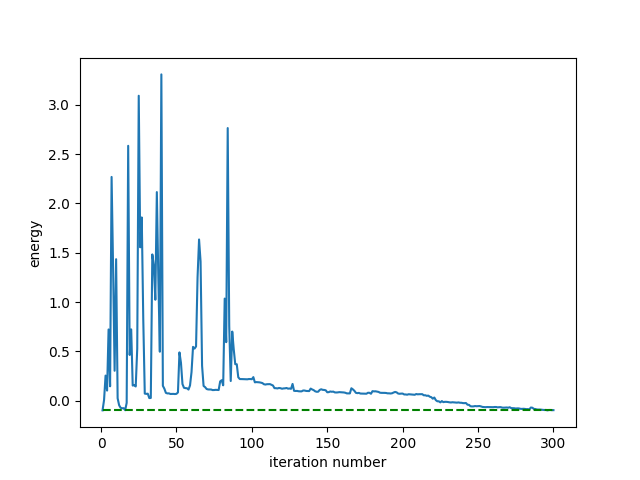
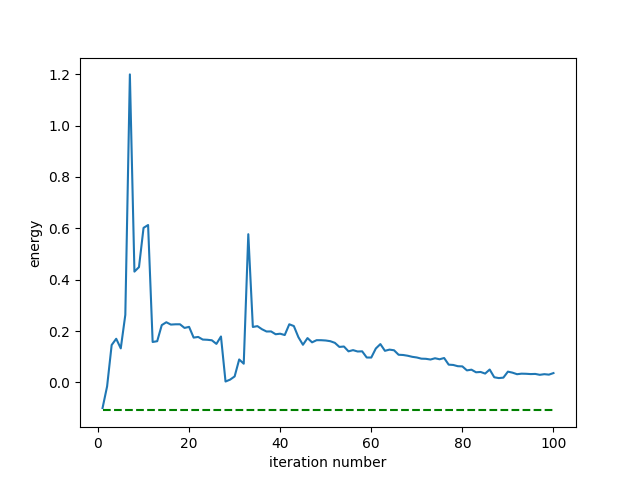
mincomp working

diff --git a/QMLCirOpts_GD_SPSA.py b/QMLCirOpts_GD_SPSA.py
@@ -3,7 +3,7 @@
     //working CLI to run different opts on circuit defined in pennyl3 """
     
 import pennylane as qml
-from noisyopt import minimizeSPSA
+from noisyopt import minimizeSPSA, minimizeCompass
 import numpy as np
 import matplotlib.pyplot as plt 
 import time
@@ -50,13 +50,39 @@ def SPSA(steps, init_params, c, a):
     res = minimizeSPSA(
         sim_run,
         x0=init_params_spsa.copy(),
-        niter=steps,
         paired=False,
         c=c,
         a=a,
+        disp=True,
         callback=callback_fn,)
 
+    print(res)
+
     return F   
+
+def MinCompass(init_params):
+    init_params_spsa = init_params
+
+    F = []
+    def callback_fn(xk):
+        cost_val = sim_run(xk)
+        F.append(cost_val)
+        cost_store_spsa.append(cost_val)
+
+    cost_store_spsa = [sim_run(init_params_spsa)]
+
+    res = minimizeCompass(
+        sim_run,
+        x0=init_params_spsa.copy(),
+        paired=False,
+        errorcontrol=False,
+        funcNinit=300,
+        disp=True,
+        callback=callback_fn,)
+
+    print(res)
+
+    return F     
 
 #new -0.10911
 def plot_result(F, opt_name, exact_E=-0.10911):
@@ -83,10 +109,11 @@ if __name__ == '__main__':
         print("     1. Basic gradient-descent optimizer (GD)")
         print("     2. Simultaneous Perturbation Stochastic Approximation (SPSA)")
         print("     3. Gradient-descent optimizer with adaptive learning rate, first and second moment (Adam)")
-        print("     4. Gradient-descent optimizer with past-gradient-dependent learning rate in each dimension. (Ada)")
-        print("     5. Gradient-descent optimizer with momentum. (MO)")
-        print("     6. Gradient-descent optimizer with Nesterov momentum. (NMO)")
-        print("     7. Root mean squared propagation optimizer. (RMSProp)")
+        print("     4. Gradient-descent optimizer with past-gradient-dependent learning rate in each dimension (Ada)")
+        print("     5. Gradient-descent optimizer with momentum (MO)")
+        print("     6. Gradient-descent optimizer with Nesterov momentum (NMO)")
+        print("     7. Root mean squared propagation optimizer (RMSProp)")
+        print("     8. Minimization of an objective function by a pattern search (MinCompass)")
         print("Input menu ID(s) of optimizers to run (examples: 1,3 or 2): ", end='')
         menu_input = input()   
         menu_input = list(menu_input.split(","))
@@ -279,7 +306,27 @@ if __name__ == '__main__':
                 print()
                 plot_result(result, "RMSProp")    
                             
+            elif(i == '8'):
+                valid_input = True
+                print("MinCompass hyperparameters (input d to use defaults OR any other key to continue modifying): ", end='')
+                param_spec = input()
+                if(param_spec != "d"):
+                    print("The algorithm terminates when the current iterate is locally optimally at the target pattern size deltatol or when the function value differs by less than the tolerance feps along all directions.")
+                    print("Initial parameters (example: 1.57079633,1.57079633,1.57079633,1.57079633,1.57079633,1.57079633): ", end='')
+                    init_params = input()
+                    init_params = [float(item) for item in init_params.split(',')]
 
+                else: 
+                    init_params = np.pi/2*np.ones(6)
+
+                time_start = time.time()
+                print("Running MinCompass---------------------------------------------------------------------------------------------")
+                result = MinCompass(init_params)
+                time_stop = time.time()
+                print("MinCompass plot saved to results directory")
+                print("MinCompass time elapsed: " + str(time_stop - time_start))
+                print()
+                plot_result(result, "MinCompass")
     
     
     

diff --git a/QMLCirOpts_Roto_QNG.py b/QMLCirOpts_Roto_QNG.py
@@ -24,13 +24,15 @@ def cost_function(rot_param, layer_par, crot_param):
     for i, par in enumerate(crot_param):
         qml.CRY(par, wires=[i, (i+1)%3])
 
-    return qml.expval(qml.PauliZ(0) @ qml.PauliZ(1) @ qml.PauliZ(2))
+    result = qml.expval(qml.PauliZ(0) @ qml.PauliZ(1) @ qml.PauliZ(2))
+    print(result)
+    return result
 
 #TRY ROTOSOLVE AND ROTOSELECT
 def RotoSolve(num_steps, init_params):
     opt = qml.optimize.RotosolveOptimizer()
     param = init_params.copy()
-    cost_rotosolve  = []
+    cost_roto  = []
 
     for step in range(num_steps):
         param, cost, sub_cost = opt.step_and_cost(
@@ -41,34 +43,53 @@ def RotoSolve(num_steps, init_params):
         )
         print(f"Cost before step: {cost}")
         print(f"Minimization substeps: {np.round(sub_cost, 6)}")
-        cost_rotosolve.extend(sub_cost)
+        cost_roto.append(cost)
 
-    return cost_rotosolve    
+    return cost_roto    
 
-def ShotAdaptive(num_step):
-    coeffs = [2, 4, -1, 5, 2]
-    obs = [
-        qml.PauliX(1),
-        qml.PauliZ(1),
-        qml.PauliX(0) @ qml.PauliX(1),
-        qml.PauliY(0) @ qml.PauliY(1),
-        qml.PauliZ(0) @ qml.PauliZ(1)
-    ]
-    H = qml.Hamiltonian(coeffs, obs)
-    dev = qml.device("default.qubit", wires=2, shots=100)
-    cost = qml.ExpvalCost(qml.templates.StronglyEntanglingLayers, H, dev)  
+def RotoSelect(num_steps, init_params):
+    opt = qml.optimize.RotoselectOptimizer()
+    param = init_params.copy()
+    cost_roto  = []
 
-    shape = qml.templates.StronglyEntanglingLayers.shape(n_layers=2, n_wires=2)
-    params = np.random.random(shape)
-    opt = qml.ShotAdaptiveOptimizer(min_shots=10)
+    for step in range(num_steps):
+        param, cost, sub_cost = opt.step_and_cost(
+            cost_function,
+            *param,
+            num_freqs=num_freqs,
+            full_output=True,
+        )
+        print(f"Cost before step: {cost}")
+        print(f"Minimization substeps: {np.round(sub_cost, 6)}")
+        cost_roto.append(cost)
 
-    energy = []
-    for i in range(num_step):
-       params = opt.step(cost, params)
-       energy = cost (params)
-       print(f"Step {i}: cost = {energy:.2f}, shots_used = {opt.total_shots_used}")
+    return cost_roto       
 
-    return energy   
+#LOW PERFORMANCE
+# def ShotAdaptive(num_step):
+#     coeffs = [2, 4, -1, 5, 2]
+#     obs = [
+#         qml.PauliX(1),
+#         qml.PauliZ(1),
+#         qml.PauliX(0) @ qml.PauliX(1),
+#         qml.PauliY(0) @ qml.PauliY(1),
+#         qml.PauliZ(0) @ qml.PauliZ(1)
+#     ]
+#     H = qml.Hamiltonian(coeffs, obs)
+#     dev = qml.device("default.qubit", wires=2, shots=100)
+#     cost = qml.ExpvalCost(qml.templates.StronglyEntanglingLayers, H, dev)  
+
+#     shape = qml.templates.StronglyEntanglingLayers.shape(n_layers=2, n_wires=2)
+#     params = np.random.random(shape)
+#     opt = qml.ShotAdaptiveOptimizer(min_shots=10)
+
+#     energy = []
+#     for i in range(num_step):
+#        params = opt.step(cost, params)
+#        energy.append(cost (params))
+#        print(f"Step {i}: cost = {cost (params):.2f}, shots_used = {opt.total_shots_used}")
+
+#     return energy   
 
 def plot_result(F, exact_E=-0.1):
     Nitr=len(F)
@@ -83,6 +104,11 @@ def plot_result(F, exact_E=-0.1):
     plt.show()   
 
 if __name__ == '__main__':
-    RotoSolve(50, init_params=init_param)
-    energy = ShotAdaptive(50)
+    energy = RotoSelect(50, init_params=init_param)
+    print(energy)
     plot_result(energy)
+
+    energy = RotoSolve(50, init_params=init_param)
+    print(energy)
+    plot_result(energy)
+

diff --git a/pennyl3.py b/pennyl3.py
@@ -188,5 +188,3 @@ def sim_run(params,n=4):
 if __name__ == '__main__':
     params=np.pi/2*np.ones(6) # need update
     sim_run(params,n=4)
-
-    
